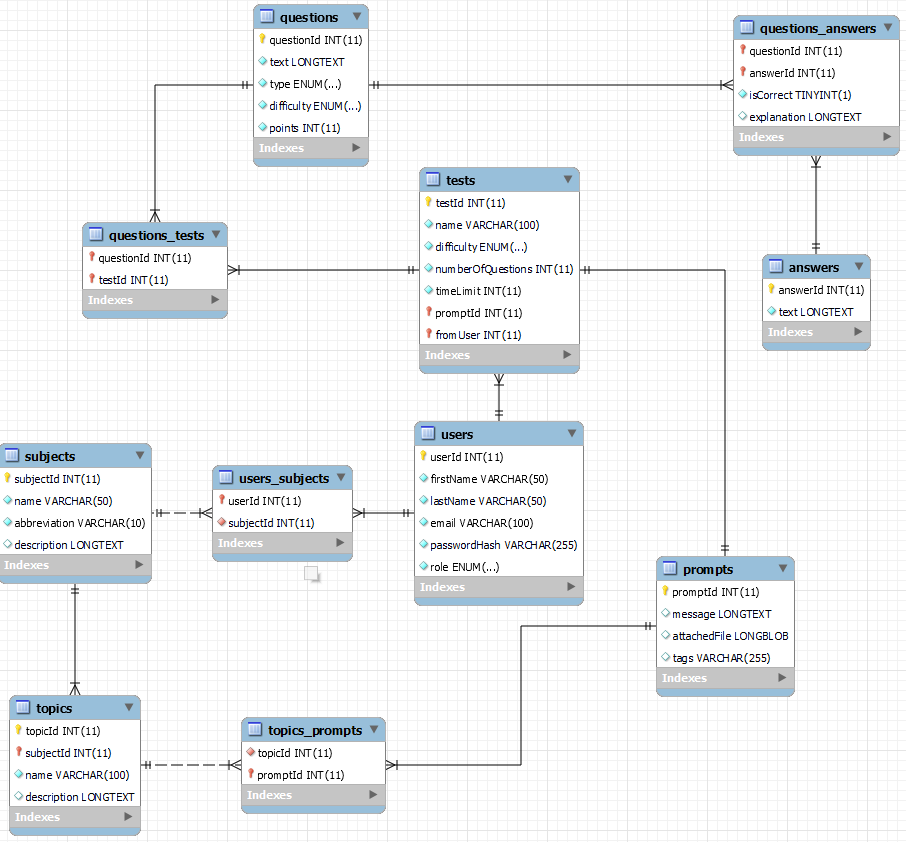
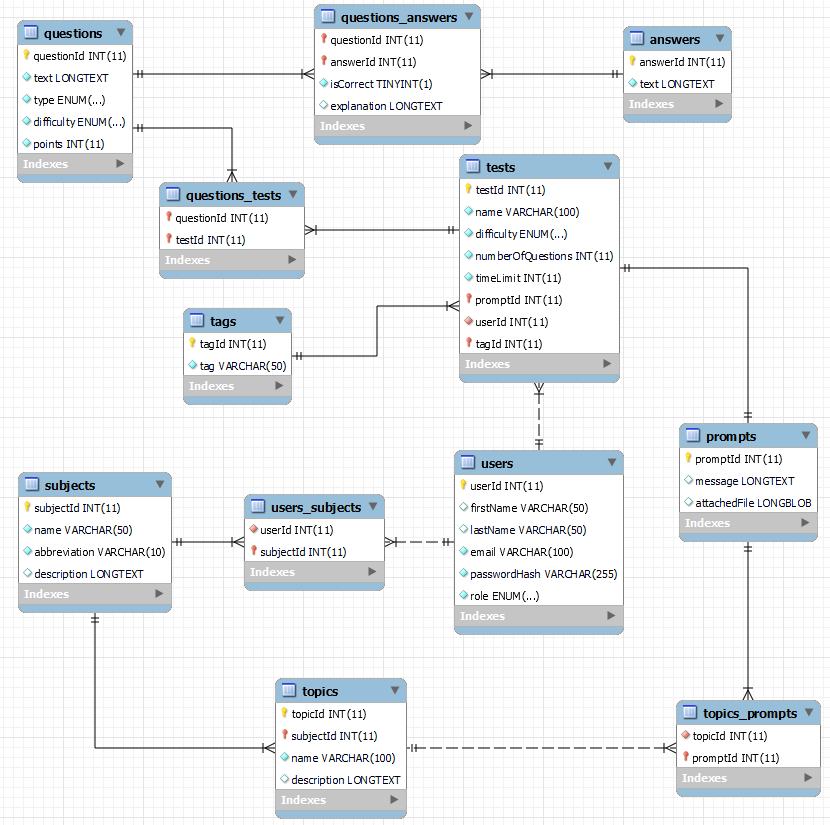
added tags table

diff --git a/src/main/java/app/services/DatabaseService.java b/src/main/java/app/services/DatabaseService.java
@@ -62,6 +62,19 @@ public class DatabaseService {
         }
     }
 
+    private void createTableTags() {
+        String sql = "CREATE TABLE IF NOT EXISTS tags (" +
+                "tagId INT PRIMARY KEY AUTO_INCREMENT, " +
+                "tag VARCHAR(50) UNIQUE NOT NULL)";
+
+        try (Statement stmt = conn.createStatement()) {
+            stmt.execute(sql);
+            System.out.println("[INFO] - Table 'tags' created.");
+        } catch (SQLException e) {
+            System.err.println("[ERROR] - Failed to create table 'tags': " + e.getMessage());
+        }
+    }
+
     private void createTableSubjects() {
         String sql = "CREATE TABLE IF NOT EXISTS subjects (" +
                 "subjectId INT PRIMARY KEY AUTO_INCREMENT, " +
@@ -99,8 +112,7 @@ public class DatabaseService {
         String sql = "CREATE TABLE IF NOT EXISTS prompts (" +
                 "promptId INT PRIMARY KEY AUTO_INCREMENT, " +
                 "message LONGTEXT, " +
-                "attachedFile LONGBLOB, " +
-                "tags VARCHAR(255))";
+                "attachedFile LONGBLOB)";
 
         try (Statement stmt = conn.createStatement()) {
             stmt.execute(sql);
@@ -189,8 +201,10 @@ public class DatabaseService {
                 "timeLimit INT NOT NULL, " +
                 "promptId INT UNIQUE NOT NULL, " +
                 "userId INT NOT NULL, " +
+                "tagId INT NOT NULL, " +
                 "CONSTRAINT FK_TESTS_PROMPTS FOREIGN KEY (promptId) REFERENCES prompts (promptId) ON DELETE CASCADE ON UPDATE CASCADE, " +
-                "CONSTRAINT FK_TESTS_USERS FOREIGN KEY (userId) REFERENCES users (userId) ON DELETE CASCADE ON UPDATE CASCADE)";
+                "CONSTRAINT FK_TESTS_USERS FOREIGN KEY (userId) REFERENCES users (userId) ON DELETE CASCADE ON UPDATE CASCADE, " +
+                "CONSTRAINT FK_TESTS_TAGS FOREIGN KEY (tagId) REFERENCES tags (tagId) ON DELETE CASCADE ON UPDATE CASCADE)";
 
         try (Statement stmt = conn.createStatement()) {
             stmt.execute(sql);
@@ -298,6 +312,7 @@ public class DatabaseService {
             dbService.createDatabase();
             dbService.useDatabase();
 
+            dbService.createTableTags();
             dbService.createTableSubjects();
             dbService.createTableTopics();
             dbService.createTablePrompts();
